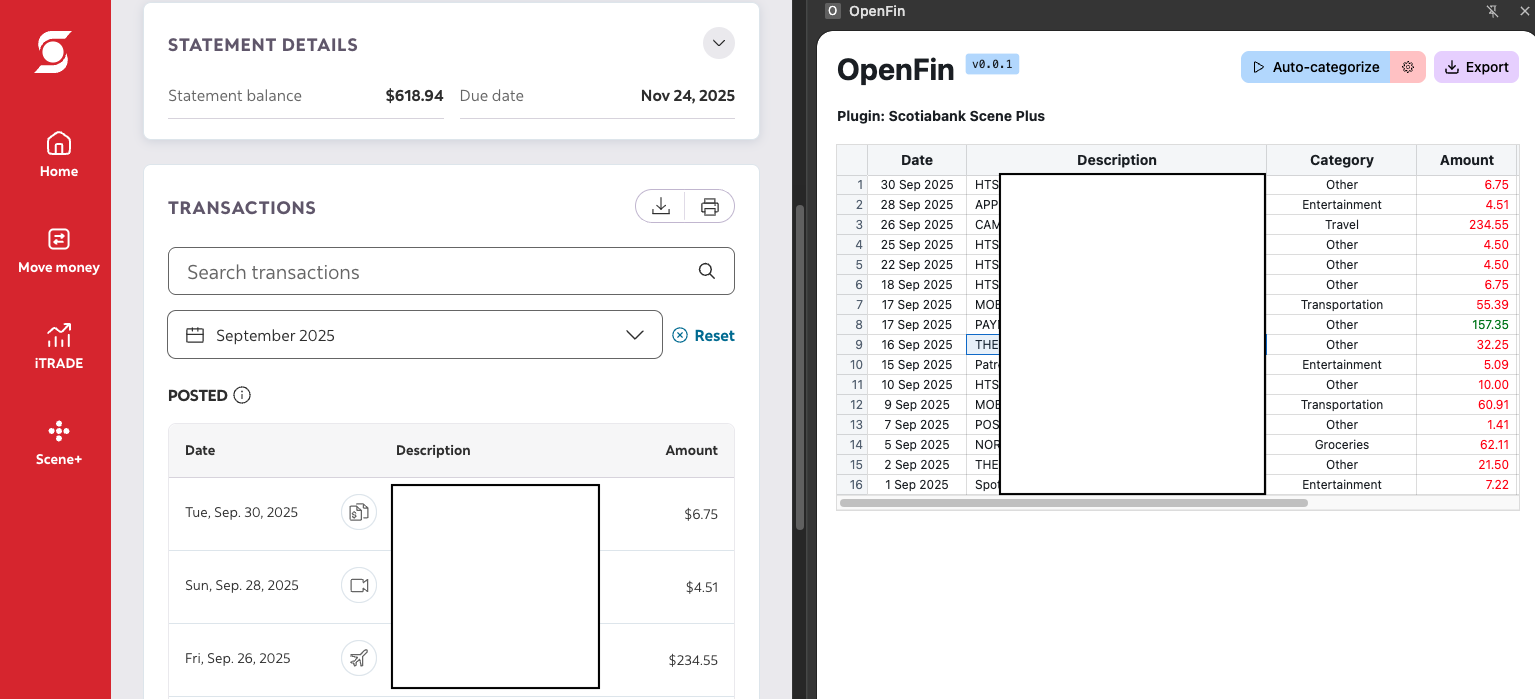
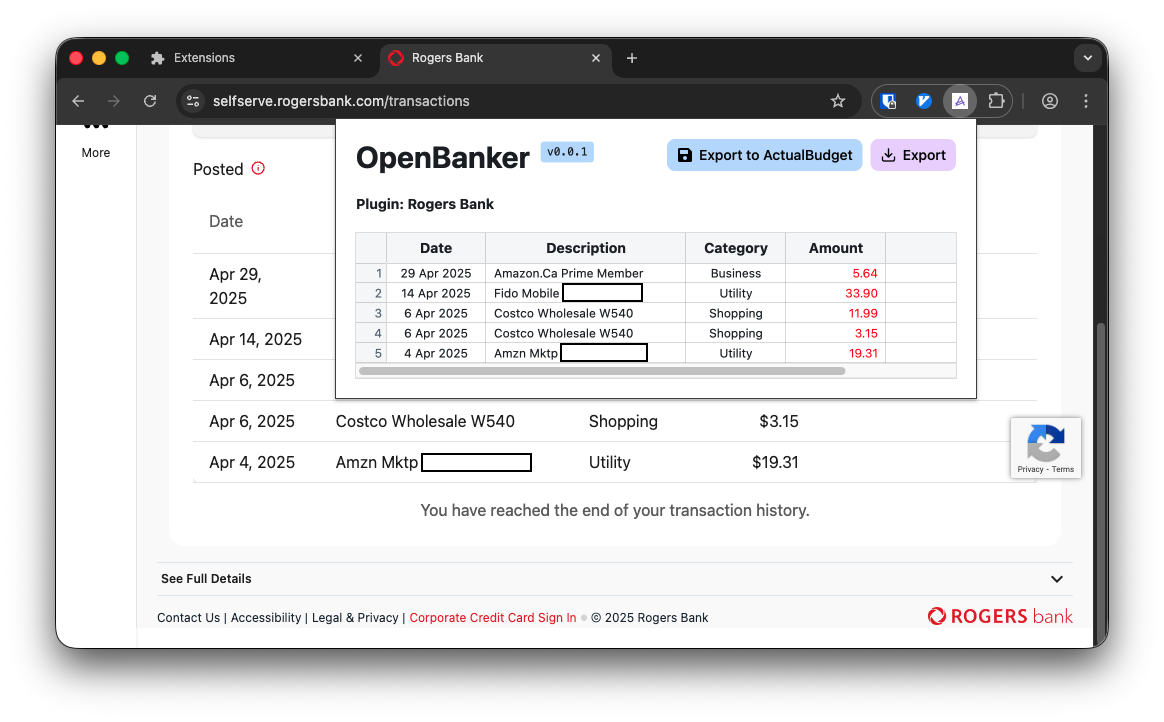
docs: Updated README.md

diff --git a/packages/side-panel/src/App.tsx b/packages/side-panel/src/App.tsx
@@ -55,7 +55,7 @@ export default function App() {
     <div className="m-5 flex flex-col space-y-5 min-w-[600px]">
       <div className="flex justify-between">
         <div className="flex space-x-1">
-          <div className="text-3xl font-bold">OpenFin</div>
+          <div className="text-3xl font-bold">OpenBanker</div>
           <pre className="flex items-start bg-blue-200 h-fit py-1 px-2 rounded scale-80">
             v0.0.1
           </pre>

diff --git a/README.md b/README.md
@@ -1,20 +1,33 @@
-# OpenFin – Finance Data Importer
+# OpenBanker – Finance Data Importer
 
-A local-first browser extension that captures transactions from online banking sessions and categorize them based on user defined rules using an LLM.
+A local-first browser extension that captures transactions from online banking sessions and exports them to CSV or [ActualBudget](https://actualbudget.org/).
 
 ![Preview](docs/preview.png)
 
-Self-host your financial data! Nobody else needs access to your banking information to anybody else.
+Self-host your financial data! Nobody else needs access to your banking information.
 
 ## 🔗 Supported banks
 
-[List of supported financial institutions here]
+![Supported Banks](docs/extensions_menu.png)
+
+- **Royal Bank of Canada (RBC)**: Chequing
+- **Scotiabank**: Chequing, Credit Card
+- **Wealthsimple**: Chequing
+- **Rogers Bank**: Credit Card
 
 ## ⭐ Key Features
 
 ### Export
 
-Currently, OpenFin only exports to CSV (*which can be imported into budgeting apps like [ActualBudget](https://actualbudget.org/) or [Firefly III](https://www.firefly-iii.org/)*). In the future, OpenFin will either have [ActualBudget](https://actualbudget.org/) baked-in (frontend-based), or have auto-importers into other open-source budgeting apps.
+OpenBanker can export to CSV (*which can be imported into budgeting apps like [ActualBudget](https://actualbudget.org/) or [Firefly III](https://www.firefly-iii.org/)*).
+
+Additionally, this [fork of ActualBudget](https://github.com/voidranjer/actual) includes an "Import from OpenBanker" feature which directly imports from the plugin (no downloading required). Check out the live demo [here](https://actual.amperleft.com).
+
+![Export to ActualBudget](docs/import_from_openbanker.png)
+
+ActualBudget automatically detects duplicates, execute rules, and more.
+
+![Import Dialog](docs/import_dialog.png)
 
 ### Natural Language Rules
 
@@ -28,20 +41,12 @@ Write rules in plain English.
 
 ## 🗺 Roadmap
 
-- Contributors
-- API key (and/or URL) settings in UI
-- gemini SDK to fetch REST API. dropdown for popular providers, and a "Custom" with user provided URL + token.
-- dropdown by default includes (Free Demo, before Dec deadline)
-- Add a "?" for what's being included/sent.
-- Backend: Rate limiting, prompt and response size limiting, etc. Security.
 - CI/CD for automating tagged builds
 - Unit testing
 - Mock transaction data for Vite dev server mode
 - Mock 'chrome' API with localStorage. Using dynamic imports, inject mocks only in dev (don't pollute prod)
-- MkDocs documentation site (or just docs on gh)
-- Financial Institution support request form.
-- Refactor Vite build and file structure. World boundaries ("MAIN", "ISOLATED", and such) should be easily distinguishable. GUI code should not be "first class" and control the root of src/. Maybe use actual's workspaces/monorepo multiple package system.
-- matches: [<all_urls>] should maybe change. otherwise any website can do window.postMessage("request transactions")
+- All 'window.postMessage' calls in bridge should verify origin of message before replying
+- Actual fork behaviour: import should skip duplicates by default
 
 ## ⌨ Developer
 
@@ -60,5 +65,3 @@ Search for feature guards like `getChromeContext() !== 'extension'` across the c
 ## 👏 Acknowledgements
 
 - [CWZMorro](https://github.com/CWZMorro) for creating the RBC plugin
-
-- [AdityaSriramTeja](https://github.com/AdityaSriramTeja) for the valuable feedback on MVP
